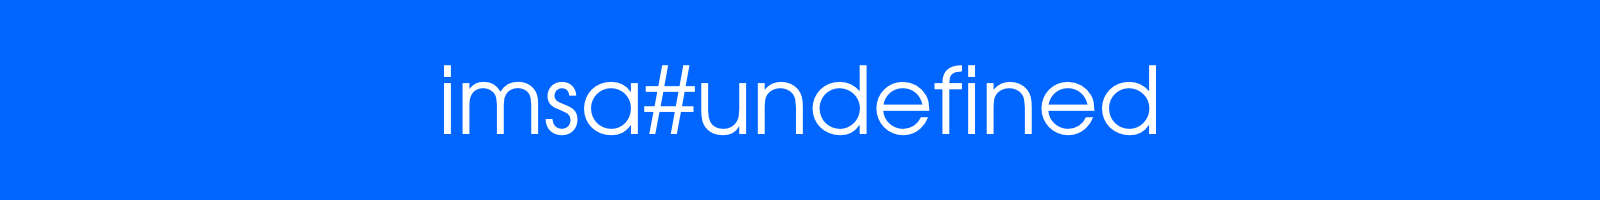
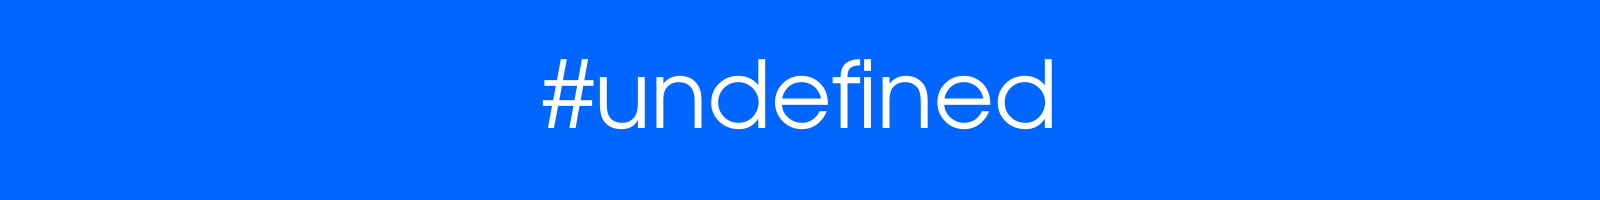
Removed IMSA from branding.

Changed region(s): [[0.25, 0.3, 0.75, 0.69], [0.25, 0.33, 0.2812, 0.36]]

diff --git a/meta/template.js b/meta/template.js
@@ -89,7 +89,7 @@ $( document ).ready( function(){
 		});
         }, "xml");
 		
-	$(".footer").append("<footer><p class=\"footer-text\"><a href=\"/\"><img class=\"footer-logo\" src=\"/media/IMSA_Undefined_Logo_White.png\" alt=\"IMSA Undefined\"></a>&nbsp;&nbsp;&nbsp;Copyright &copy; imsa#undefined 2015</p></footer>");
+	$(".footer").append("<footer><p class=\"footer-text\"><a href=\"/\"><img class=\"footer-logo\" src=\"/media/IMSA_Undefined_Logo_White.png\" alt=\"#ndefined\"></a>&nbsp;&nbsp;&nbsp;Copyright &copy; #undefined 2015</p></footer>");
 });
 
 function getPreferredCalendars(form)

diff --git a/meta/style.css b/meta/style.css
@@ -246,3 +246,11 @@ hr
 	margin-right: auto;
 	width: 100%;
 }
+
+.body-box img.centered
+{
+	display: block;
+	margin: 0;
+	margin-left: auto;
+	margin-right: auto;
+}
